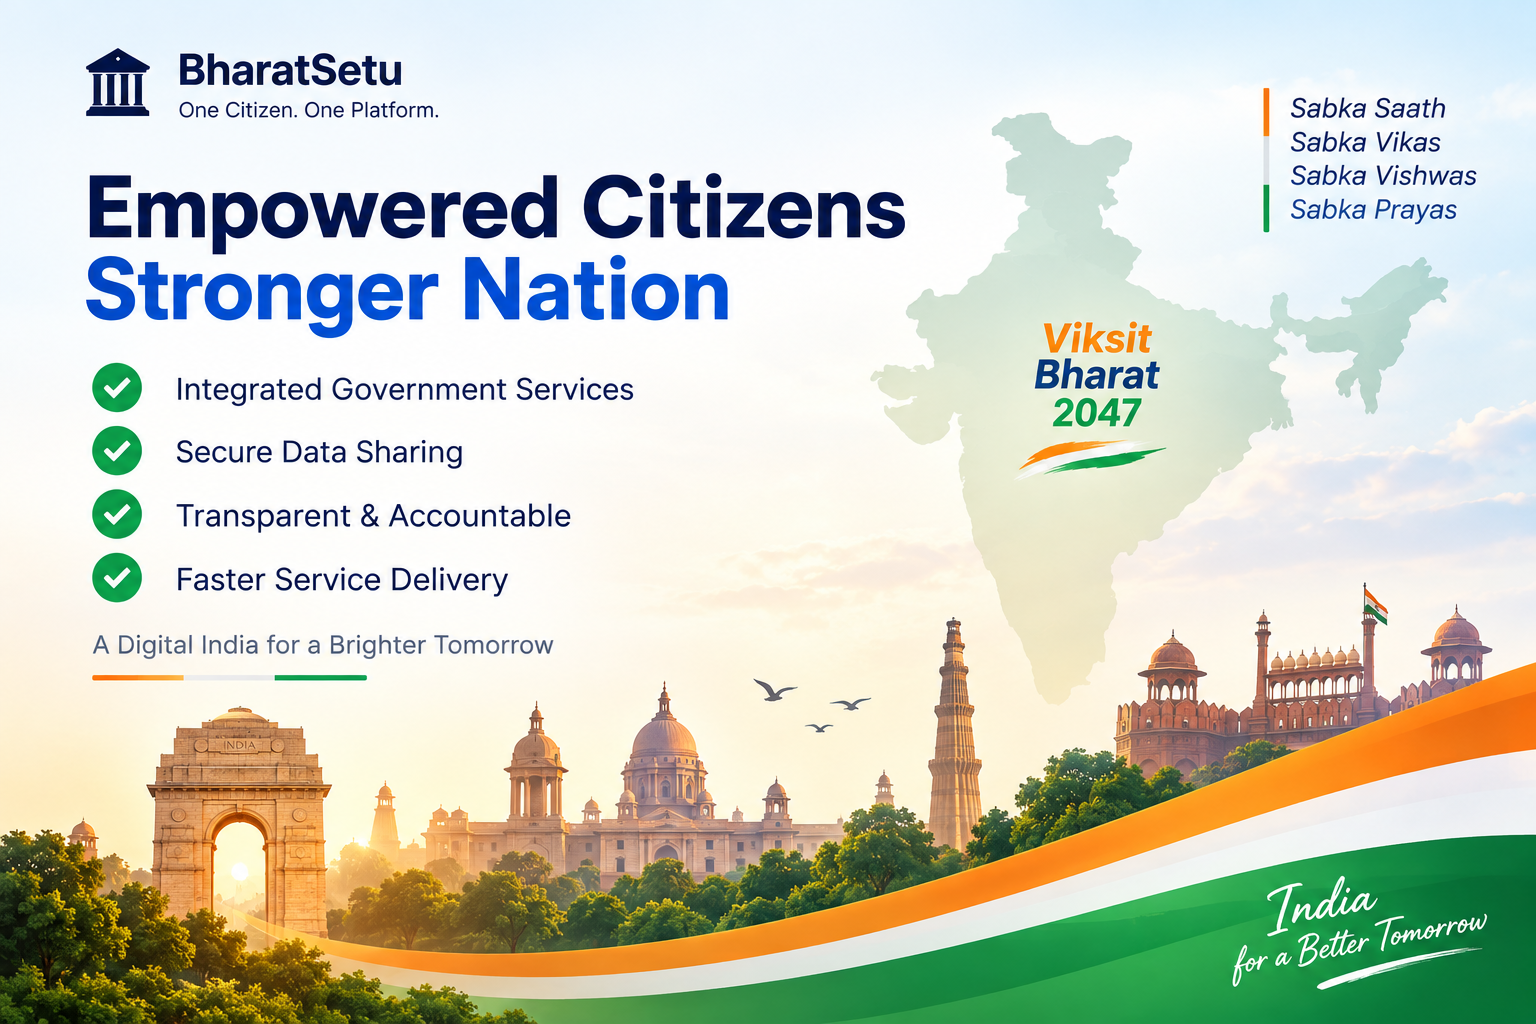
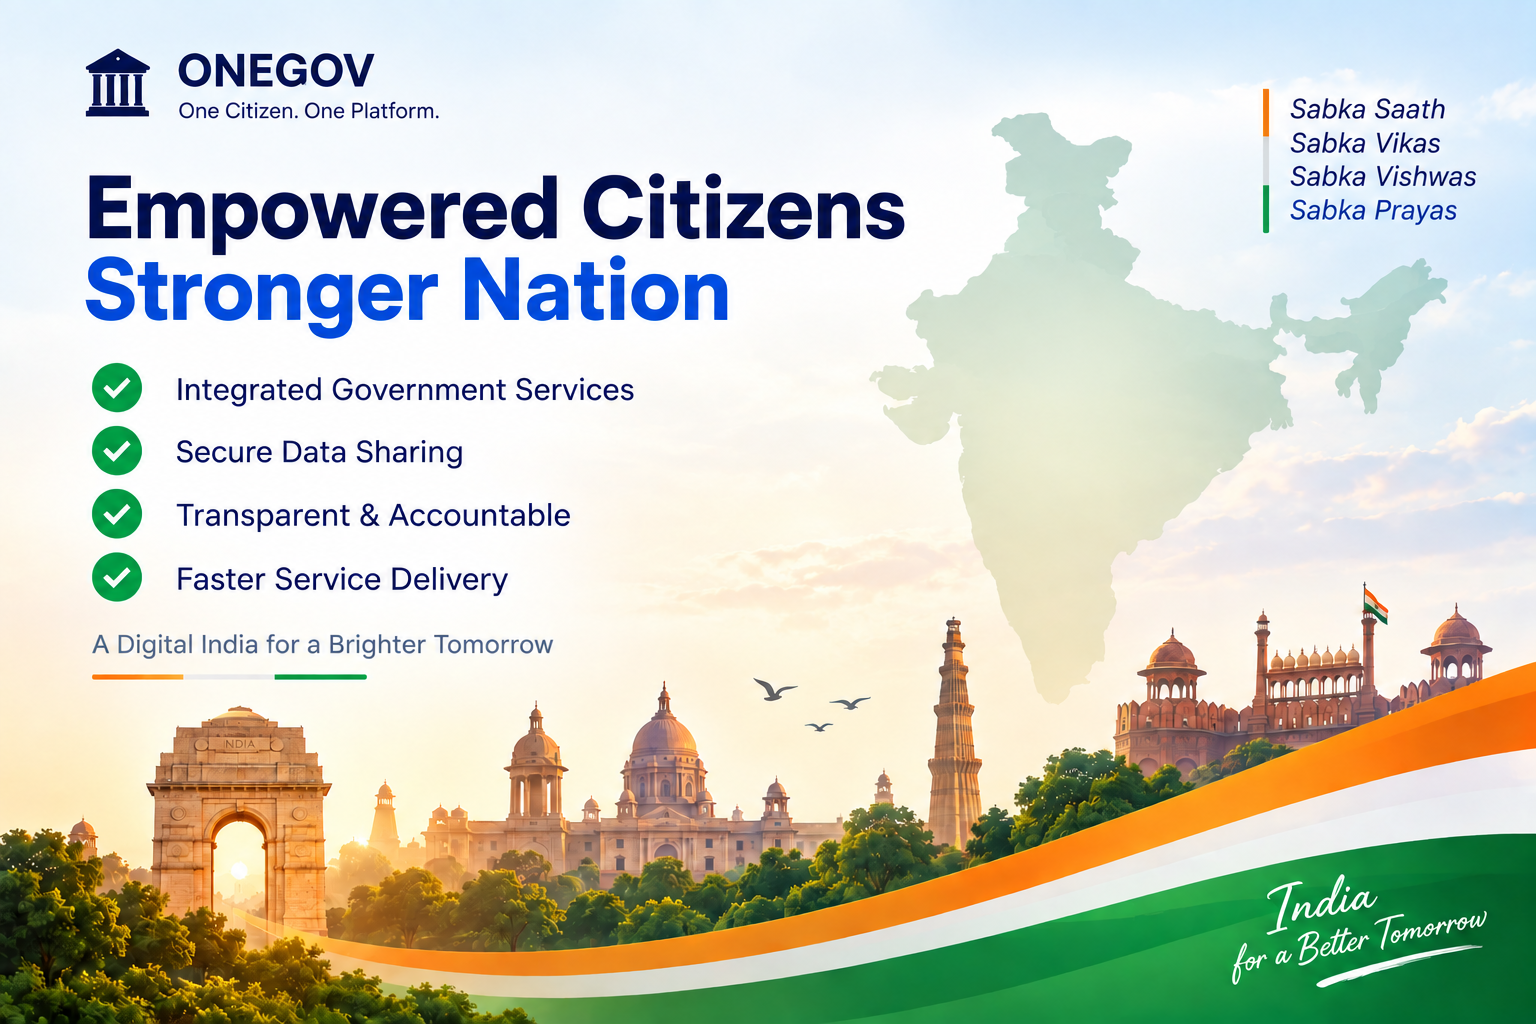
Update dashboard design and images

diff --git a/backend/public/style.css b/backend/public/style.css
@@ -197,7 +197,7 @@ body {
 }
 
 .hero-section {
-  height: 180px;
+  height: 150px;
   background: linear-gradient(120deg, #e9f3fb, #dcebf5);
   margin-bottom: 15px;
   border-radius: 0 0 8px 8px;
